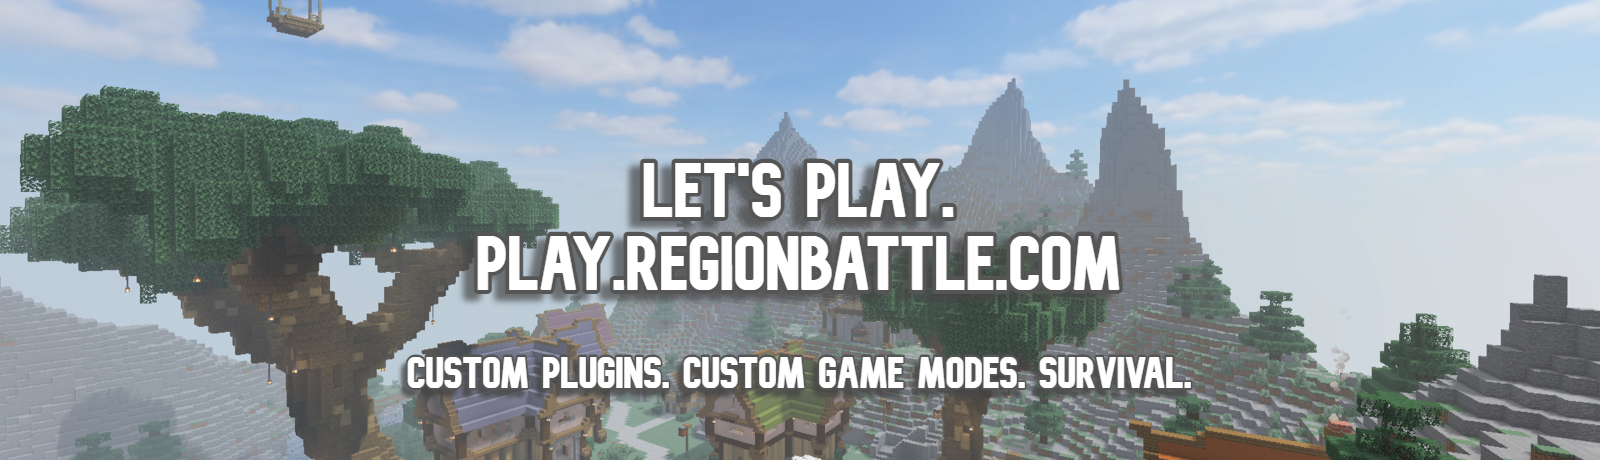
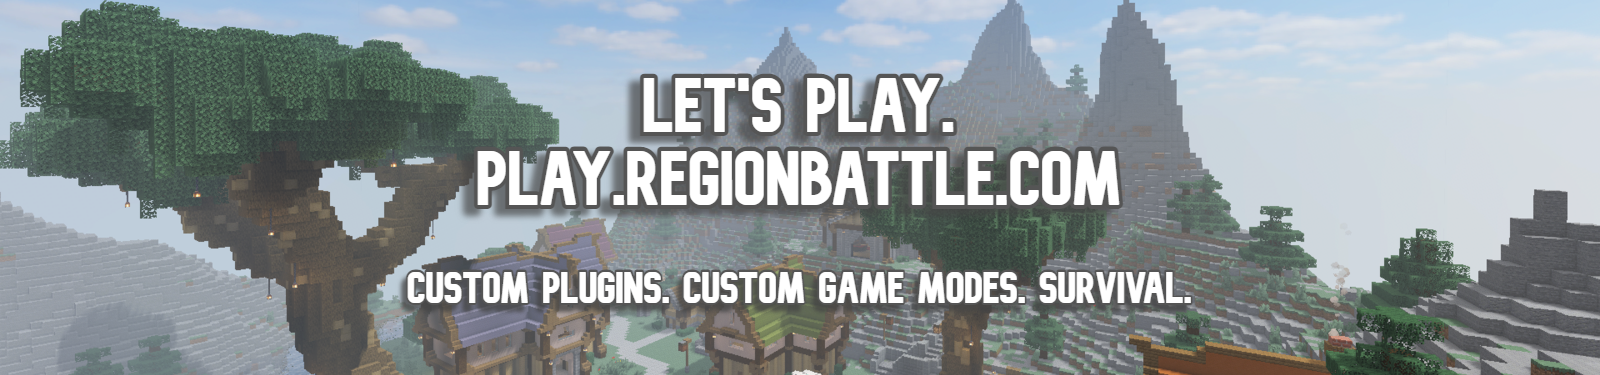
V1 for game modes page

diff --git a/src/components/BattleGameMode/BattleGameMode.js b/src/components/BattleGameMode/BattleGameMode.js
@@ -1,0 +1,25 @@
+import {Col, Container, Image, Row} from "react-bootstrap";
+import React from "react";
+import "./BattleGameMode.css"
+
+function BattleGameMode() {
+    return (
+            <Container fluid className="battle p-0 overflow-hidden" id="battle">
+            <br/>
+                <Row className="battleRow">
+
+                    <Col md={true} sm={true}>
+                        <h3>Battle</h3>
+                        <br/>
+                        <p>Battle Game Mode</p>
+                        <p>Head over to /battlespawn and then /joinbattle when you are ready to be thrown into the action.</p>
+                        <p>Teams are randomly assigned, and each team's spawn point changes after each 2 hour round.</p>
+                        <p>Prepare for battle by gathering supplies, or search for structures with randomized loot!</p>
+                    </Col>
+
+                </Row>
+            </Container>
+    );
+}
+
+export default BattleGameMode;

diff --git a/src/components/RegionBattleGameMode/RegionBattleGameMode.js b/src/components/RegionBattleGameMode/RegionBattleGameMode.js
@@ -1,0 +1,24 @@
+import {Col, Container, Image, Row} from "react-bootstrap";
+import React from "react";
+import "./RegionBattleGameMode.css"
+
+function RegionBattleGameMode() {
+    return (
+            <Container fluid className="regionBattle p-0 overflow-hidden" id="regionBattle">
+            <br/>
+                <Row className="regionBattleRow">
+
+                    <Col md={true} sm={true}>
+                        <h3>RegionBattle</h3>
+                        <br/>
+                        <p>The original RegionBattle Game Mode!</p>
+                        <p>Matches start by joining /rbspawn. Teams will automatically be assembled every 5 minutes when 2 or more players enter the lobby.</p>
+                        <p>Prepare for battle in the safety of your team's region, but beware! You aren't safe forever!</p>
+                    </Col>
+
+                </Row>
+            </Container>
+    );
+}
+
+export default RegionBattleGameMode;

diff --git a/src/components/SurvivalGameMode/SurvivalGameMode.js b/src/components/SurvivalGameMode/SurvivalGameMode.js
@@ -1,0 +1,24 @@
+import {Col, Container, Image, Row} from "react-bootstrap";
+import React from "react";
+import "./SurvivalGameMode.css"
+
+function SurvivalGameMode() {
+    return (
+            <Container fluid className="survival p-0 overflow-hidden" id="survival">
+            <br/>
+                <Row className="survivalRow">
+
+                    <Col md={true} sm={true}>
+                        <h3>Survival</h3>
+                        <br/>
+                        <p>A more traditional minecraft experience with some customizations to keep things interesting.</p>
+                        <p>Go to /spawn in game to get to the main survival world spawn.</p>
+                        <p>Claim your land with GriefPrevention, trade with players on the Auction House, Discover custom mini-bosses and Battle Regions!</p>
+                    </Col>
+
+                </Row>
+            </Container>
+    );
+}
+
+export default SurvivalGameMode;

diff --git a/src/Routes/GameModesRoute/GameModesRoute.js b/src/Routes/GameModesRoute/GameModesRoute.js
@@ -1,0 +1,23 @@
+import './GameModesRoute.css';
+import Header from "../../components/Header/Header";
+import Footer from "../../components/Footer/Footer";
+import SurvivalGameMode from "../../components/SurvivalGameMode";
+import RegionBattleGameMode from "../../components/RegionBattleGameMode";
+import BattleGameMode from "../../components/BattleGameMode";
+
+function GameModesRoute() {
+    return (
+        <div className="GameModesRoute">
+            <Header/>
+            <div className="gameModesTitle">
+                <h1>Game Modes</h1>
+            </div>
+            <SurvivalGameMode/>
+            <RegionBattleGameMode/>
+            <BattleGameMode/>
+            <Footer/>
+        </div>
+    );
+}
+
+export default GameModesRoute;

diff --git a/src/components/RegionBattleGameMode/RegionBattleGameMode.css b/src/components/RegionBattleGameMode/RegionBattleGameMode.css
@@ -1,0 +1,17 @@
+.regionBattle{
+    background-image: linear-gradient( rgba(94, 94, 94, 0.53), rgba(100, 100, 100, 0.54)) , url('../../assets/regionBattle.png');
+    background-repeat:no-repeat;
+    background-size:cover;
+    background-position: center center;
+    width: 100%;
+    height:auto;
+    border-top: #3c3f41 solid;
+}
+
+.regionBattleRow{
+    font-size: 20px;
+    padding: 10px;
+    text-shadow: 2px 2px 2px #3c3f41;
+    color: white;
+    margin: 30px;
+}

diff --git a/src/components/SurvivalGameMode/SurvivalGameMode.css b/src/components/SurvivalGameMode/SurvivalGameMode.css
@@ -1,0 +1,17 @@
+.survival{
+    background-image: linear-gradient( rgba(94, 94, 94, 0.53), rgba(100, 100, 100, 0.54)) , url('../../assets/survival.png');
+    background-repeat:no-repeat;
+    background-size:cover;
+    background-position: center center;
+    width: 100%;
+    height:auto;
+    border-top: #3c3f41 solid;
+}
+
+.survivalRow{
+    font-size: 20px;
+    padding: 10px;
+    text-shadow: 2px 2px 2px #3c3f41;
+    color: white;
+    margin: 30px;
+}

diff --git a/src/components/BattleGameMode/BattleGameMode.css b/src/components/BattleGameMode/BattleGameMode.css
@@ -1,0 +1,17 @@
+.battle{
+    background-image: linear-gradient( rgba(94, 94, 94, 0.53), rgba(100, 100, 100, 0.54)) , url('../../assets/battle.png');
+    background-repeat:no-repeat;
+    background-size:cover;
+    background-position: center center;
+    width: 100%;
+    height:auto;
+    border-top: #3c3f41 solid;
+}
+
+.battleRow{
+    font-size: 20px;
+    padding: 10px;
+    text-shadow: 2px 2px 2px #3c3f41;
+    color: white;
+    margin: 30px;
+}

diff --git a/src/components/HowToPlay/HowToPlay.css b/src/components/HowToPlay/HowToPlay.css
@@ -13,6 +13,9 @@
     background-image: linear-gradient( rgba(0,0,0,.1), rgba(0,0,0,.7) ), url('../../assets/howToPlayBG.png');
     background-size: 100% 1500px;
     border-top: 8px solid #3c3f41;
+    background-repeat:no-repeat;
+    background-size:cover;
+    background-position: center center;
 }
 
 .howToPlay li{

diff --git a/src/components/HeaderBanner/HeaderBanner.css b/src/components/HeaderBanner/HeaderBanner.css
@@ -2,4 +2,8 @@
     height: auto;
     width: 100%;
     max-height: 250px;
+    background-repeat:no-repeat;
+    background-size:cover;
+    background-position: center center;
+    background-attachment: fixed;
 }

diff --git a/src/Routes/GameModesRoute/GameModesRoute.css b/src/Routes/GameModesRoute/GameModesRoute.css
@@ -1,0 +1,8 @@
+.gameModesTitle{
+    background-color: #3c3f41;
+    font-size: 20px;
+    padding: 10px;
+    text-shadow: 2px 2px 2px #3c3f41;
+    color: white;
+    margin: auto;
+}

diff --git a/src/components/Hero/Hero.css b/src/components/Hero/Hero.css
@@ -1,5 +1,5 @@
 .heroImage {
     height: auto;
     width: 100%;
-    margin-top: -75px
+    position: relative;
 }

diff --git a/src/components/RegionBattleGameMode/index.js b/src/components/RegionBattleGameMode/index.js
@@ -1,0 +1,1 @@
+export {default} from './RegionBattleGameMode.js';
